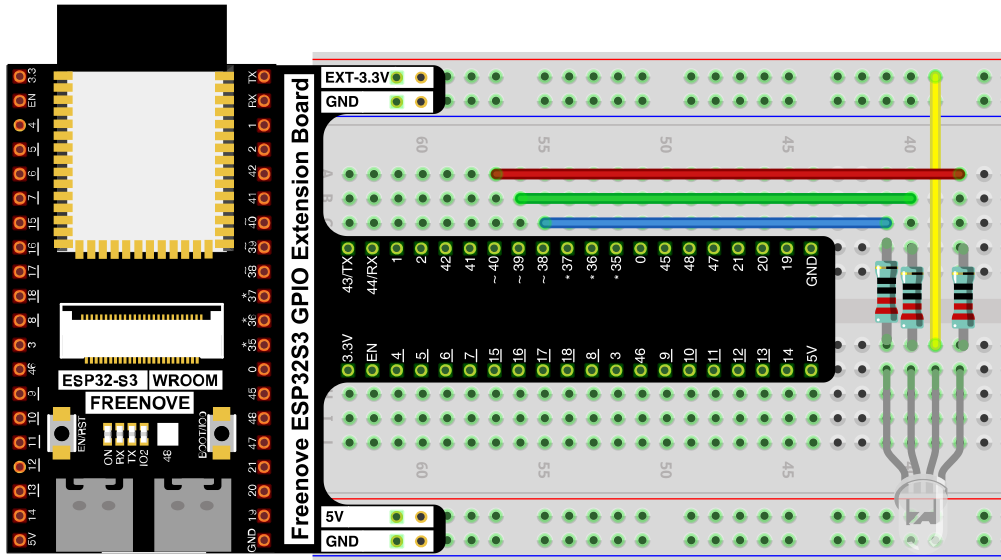
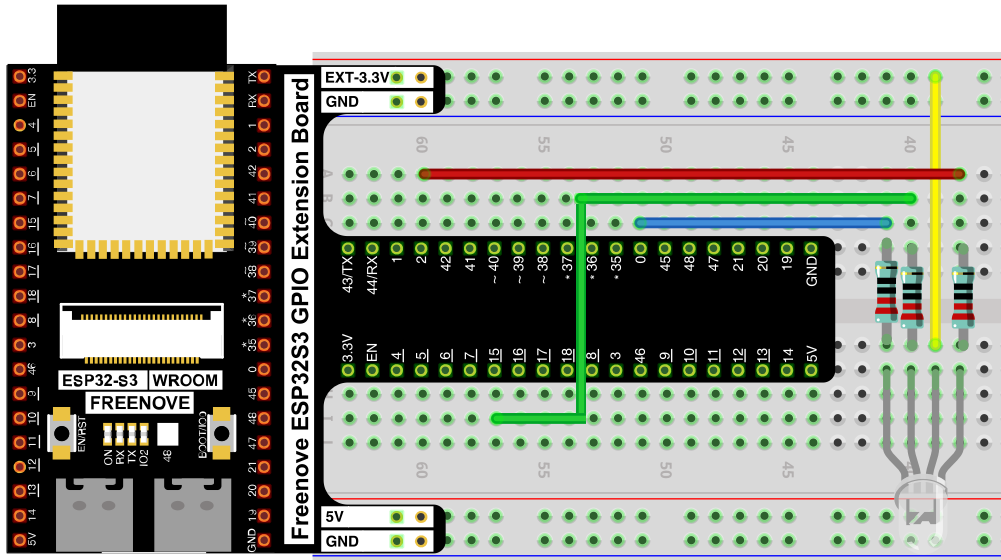
fix new concepts on 01.04, 02.01 and fix wiring and schematic diagrams for 02.03

Changed region(s): [[0.4026, 0.2732, 0.6503, 0.7589]]

diff --git a/01_first_examples/01_04_breathing_LED.md b/01_first_examples/01_04_breathing_LED.md
@@ -5,7 +5,7 @@ Fade an LED smoothly from off to on and back again, like breathing, instead of j
 ## New Concepts
 - Analog vs. digital signals
 - PWM (Pulse-Width Modulation)
-- For loops
+- `for` loops
 
 
 ### Concept: Analog & Digital
@@ -23,6 +23,23 @@ Microcontroller pins can only output fully HIGH or fully LOW — they can't outp
 The longer the duty cycle, the higher the effective brightness of an LED driven by that pin.
 
 On the ESP32-S3, the PWM (LEDC) controller has 8 channels, each independently configurable for frequency, duty cycle, and resolution.
+
+### Concept: `for` Loops
+
+A for loop runs the code inside of it multiple times.  e.g. These two code snippets produce the same output:
+
+```python
+print(0)
+print(1)
+print(2)
+```
+
+```python
+for i in range(0, 3):
+    print(i)
+```
+
+The for loop defines a variable `i` and that variable will be assigned a different value before each iteration of the loop as defined by the `range`.  In this case range is telling python the first value for `i` is 0, the last value is 2 and increase the value by one before it starts running the code contained in the loop.
 
 ---
 

diff --git a/02_input_and_output/02_01_flowing_light.md b/02_input_and_output/02_01_flowing_light.md
@@ -6,6 +6,12 @@ Control a 10-LED bar graph to create a flowing light animation — LEDs light up
 
 - Lists
 
+### Concept: List
+
+Python lists hold a sequence of values, for example `l = [1, 2, 3]` is a list holding the values 1, 2, and 3.  Values in a list can be access by index, so `l[0]` accesses the first item in the list, 1 using the example from above.
+
+See [Python documentation](https://docs.python.org/3/tutorial/datastructures.html) for more info on lists.
+
 ## Component List
 
 ![Component List](../images/02_01_components.png)